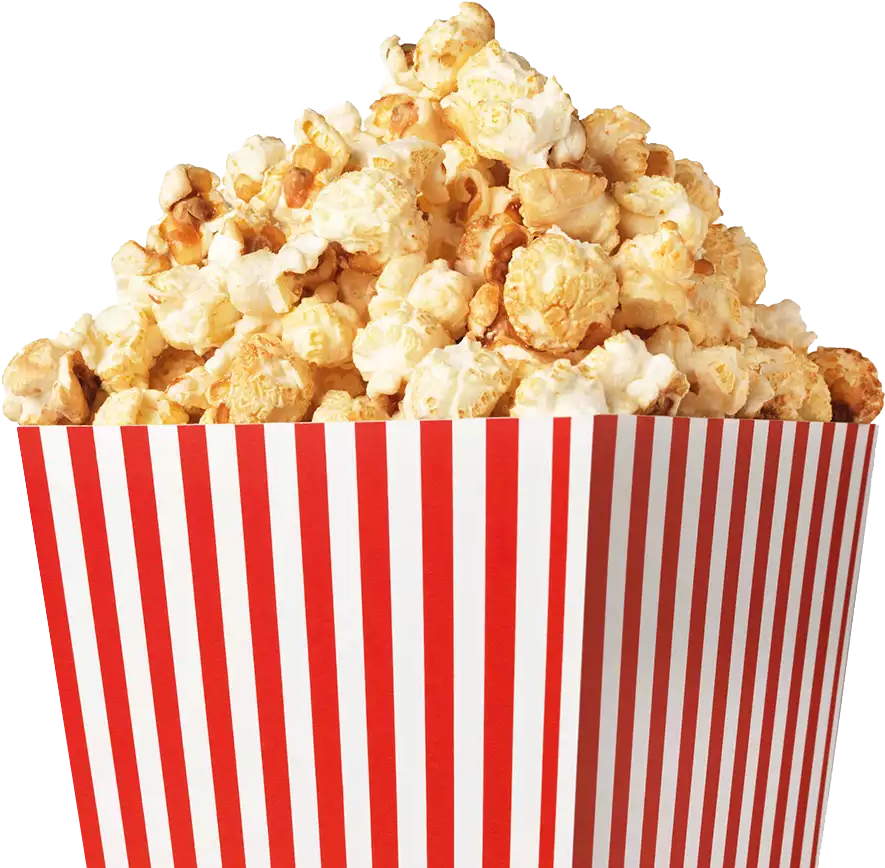
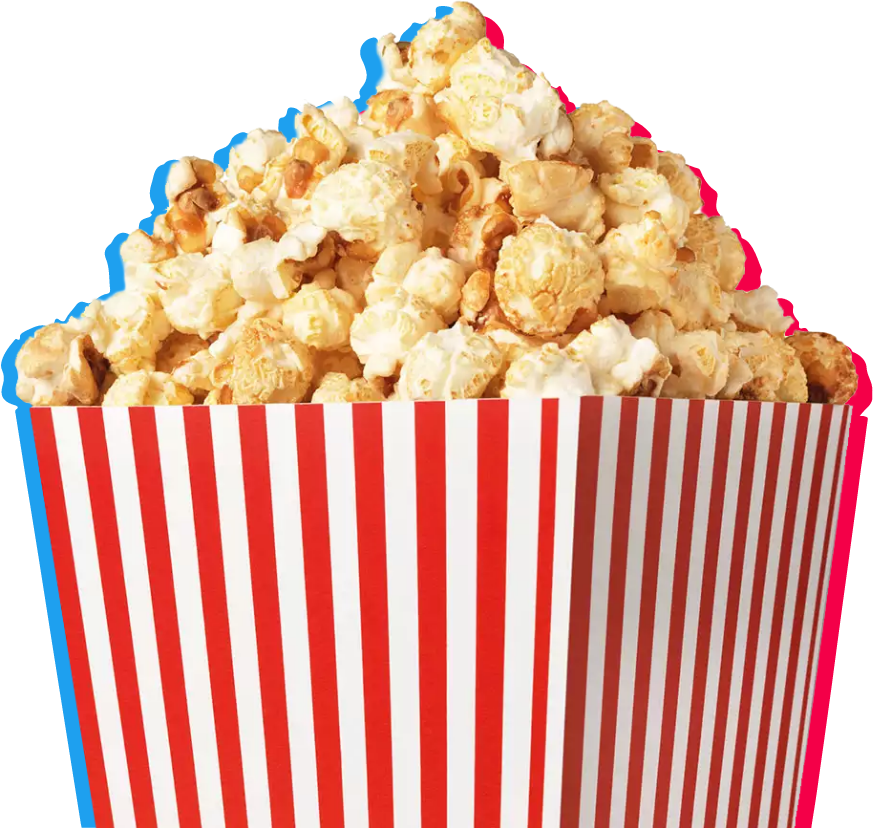
load on scroll start

diff --git a/src/components/Search.vue b/src/components/Search.vue
@@ -1,17 +1,24 @@
 <template>
   <div>
     <section class="options">
-      <form form v-on:submit.prevent="getMovies" class="options__row">
+      <form form v-on:submit.prevent="getNewMovies" class="options__row">
         <div class="filters">
           <span class="filters__label">Filter</span>
-          <select v-model="filmType" class="filters__option select input" @change="getMovies">
+          <select v-model="filmType" class="filters__option select input" @change="getNewMovies">
             <option value>Type</option>
             <option value="movie">Movie</option>
             <option value="series">Series</option>
             <option value="episode">Episode</option>
             <option value="game">Game</option>
           </select>
-          <input class="filters__option input" type="number" placeholder="Year" v-model="filmYear" />
+          <input
+            class="filters__option input"
+            type="number"
+            placeholder="Year"
+            min="1870"
+            max="9999"
+            v-model="filmYear"
+          />
         </div>
         <div class="search">
           <input class="input search__input" v-model="filmName" />
@@ -34,9 +41,10 @@
           </div>
           <div class="films__poster-wrapper">
             <img class="films__poster" v-if="film.Poster != 'N/A'" :src="film.Poster" />
-            <img class="films__poster" v-if="film.Poster == 'N/A'" src="../assets/popcorn.png" />
+            <img class="films__poster" v-if="film.Poster == 'N/A'" src="../assets/poster.png" />
           </div>
           <h2 class="films__title">{{ film.Title }}</h2>
+          <span class="films__arrow">read more</span>
         </li>
       </template>
       <p v-if="error">Brak wyników :(</p>
@@ -58,12 +66,14 @@ export default {
       this.filmType = hash[2];
     }
     this.getMovies();
+    window.addEventListener("scroll", this.handleScroll);
   },
 
   data() {
     return {
       films: [],
       results: 0,
+      pages: 0,
       error: false,
       filmName: "Star Wars",
       filmType: "",
@@ -72,12 +82,25 @@ export default {
   },
 
   methods: {
-    getMovies() {
+    getNewMovies() {
       this.films = [];
+      this.pages = 0;
+      this.getMovies();
+    },
+    handleScroll() {
+      let currentPos = window.pageYOffset + window.innerHeight;
+      let pageHight = document.body.offsetHeight;
+      console.log(this.pages);
+      if (currentPos > pageHight - 100 && this.pages < 99) {
+        this.getMovies();
+      }
+    },
+    getMovies() {
       for (let i = 1; i < 3; i++) {
+        this.pages++;
         axios
           .get(
-            `https://www.omdbapi.com/?apikey=81a9086&s=${this.filmName}&y=${this.filmYear}&type=${this.filmType}&page=${i}`
+            `https://www.omdbapi.com/?apikey=81a9086&s=${this.filmName}&y=${this.filmYear}&type=${this.filmType}&page=${this.pages}`
           )
           .then(response => {
             if (response.data.Search != undefined) {
@@ -85,9 +108,9 @@ export default {
               this.results = response.data.totalResults;
               this.error = false;
             } else {
-              i = 3;
               this.error = true;
               this.results = 0;
+              return "stop";
             }
             window.location.hash = `${this.filmName}&${this.filmYear}&${this.filmType}`;
           })
@@ -122,7 +145,7 @@ export default {
     option {
       background: #090331;
       margin: 1rem 0;
-      line-height: 12rem !important;
+      cursor: pointer;
     }
 
     &.select {
@@ -130,10 +153,11 @@ export default {
       background-repeat: no-repeat;
       background-position: calc(100% - 2.5rem);
       background-size: 1.3rem;
+      cursor: pointer;
     }
 
     &::placeholder {
-      color: white;
+      color: rgba(250, 250, 250, 0.5);
     }
 
     &:first-child {
@@ -176,7 +200,7 @@ export default {
 
 .results {
   font-size: 1.7rem;
-  margin-top: 3rem;
+  margin-top: 1.5rem;
   font-weight: 200;
 }
 
@@ -188,13 +212,17 @@ export default {
   &__film {
     display: flex;
     flex-direction: column;
-    margin-top: 8rem;
+    margin-top: 6rem;
     padding: 0 2.5rem;
     width: calc(25%);
     cursor: pointer;
 
     &:hover .films__poster-wrapper::after {
       transform: scale(1);
+    }
+    &:hover .films__arrow {
+      opacity: 1;
+      transform: translateY(0);
     }
   }
 
@@ -236,7 +264,7 @@ export default {
     display: flex;
     justify-content: space-between;
     padding: 0 10%;
-    margin-bottom: 2rem;
+    margin-bottom: 1.5rem;
     font-size: 2rem;
   }
 
@@ -245,10 +273,10 @@ export default {
   }
 
   &__type {
-    padding-left: 4.5rem;
+    padding-left: 3rem;
     background-repeat: no-repeat;
     background-position: left;
-    background-size: 4.5rem;
+    background-size: 2rem;
     font-weight: 600;
 
     &::first-letter {
@@ -260,14 +288,34 @@ export default {
     &.episode {
       background-image: url("../assets/movie-icon.svg");
     }
+
+    &.game {
+      background-image: url("../assets/game-icon.svg");
+    }
   }
 
   &__title {
     padding: 0 10%;
+    margin-bottom: 1rem;
     font-family: "Bebas Neue", cursive;
     font-size: 3rem;
     font-weight: 400;
     line-height: 3.2rem;
+  }
+
+  &__arrow {
+    font-family: "Montserrat", sans-serif;
+    font-size: 18px;
+    font-weight: 200;
+    padding-left: 5rem;
+    margin: 0 0 0 10%;
+    background-image: url("../assets/arrow-icon.svg");
+    background-repeat: no-repeat;
+    background-position: left;
+    will-change: transform, opacity;
+    transition: transform 0.5s, opacity 0.5s;
+    opacity: 0;
+    transform: translateY(2rem);
   }
 }
 </style>

diff --git a/src/components/Header.vue b/src/components/Header.vue
@@ -4,8 +4,6 @@
     <div class="header__images">
       <div class="header__popcorn">
         <img class="header__image" src="../assets/popcorn.png" alt="popcorn" />
-        <img class="header__shadow left" src="../assets/popcorn-svg-blue.svg" alt="popcorn shadow" />
-        <img class="header__shadow right" src="../assets/popcorn-svg-red.svg" alt="popcorn shadow" />
         <img class="header__fall" src="../assets/popcorn1.png" alt="popcorn" />
         <img class="header__glass3d" src="../assets/glasses3d.png" alt="3d glasses" />
       </div>
@@ -79,22 +77,6 @@ export default {
 
   &__image {
     width: 100%;
-  }
-
-  &__shadow {
-    position: absolute;
-    width: 100%;
-    left: 0;
-    bottom: 0;
-
-    &.left {
-      transform: translateX(-2%);
-      z-index: -1;
-    }
-    &.right {
-      transform: translateX(1.5%);
-      z-index: -2;
-    }
   }
 
   &__fall {
